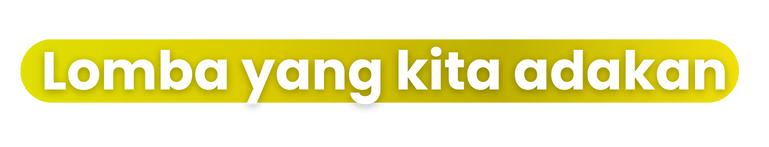
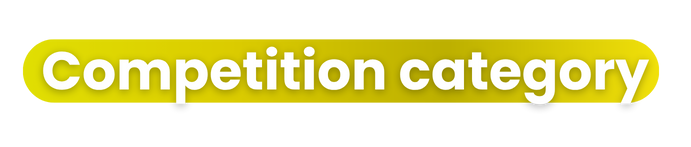
update bahasa

Changed region(s): [[0.0, 0.2449, 0.9725, 0.7347]]

diff --git a/resources/views/front/index.blade.php b/resources/views/front/index.blade.php
@@ -84,7 +84,7 @@
             <li style="margin-right: 20px;"><a href="#hero" class="active" style="color: white; text-decoration: none;">Home</a></li>
             <li style="margin-right: 20px;"><a href="#about" style="color: white; text-decoration: none;">About</a></li>
             <li style="margin-right: 20px;"><a href="#services" style="color: white; text-decoration: none;">Category</a></li>
-            <li style="margin-right: 20px;"><a href="#registration" style="color: white; text-decoration: none;">Daftar</a></li>
+            <li style="margin-right: 20px;"><a href="#registration" style="color: white; text-decoration: none;">Register</a></li>
             <li class="d-none d-md-flex" style="gap: 12px; align-items: center;">
               <a href="mailto:difest8th@gmail.com" title="Email" style="color: white; font-size: 1.3em;"><i class="bi bi-envelope"></i></a>
               <a href="https://www.tiktok.com/@difest" target="_blank" title="TikTok" style="color: white; font-size: 1.3em;"><i class="bi bi-tiktok"></i></a>

diff --git a/resources/views/layouts/topbar.blade.php b/resources/views/layouts/topbar.blade.php
@@ -22,8 +22,9 @@
                 </a>
             </div>
 
-            <button type="button" class="btn btn-sm px-3 font-size-16 header-item waves-effect vertical-menu-btn">
-
+            <!-- Hamburger menu for mobile sidebar toggle -->
+            <button type="button" class="btn btn-sm px-3 font-size-20 header-item waves-effect vertical-menu-btn d-block d-lg-none" id="sidebarToggle" aria-label="Toggle sidebar">
+                <i class="uil uil-bars"></i>
             </button>
 
             <!-- App Search-->
@@ -32,7 +33,7 @@
 
         <div class="d-flex">
 
-            <div class="dropdown d-none d-lg-inline-block ms-1">
+            <div class="dropdown d-inline-block ms-1">
                 <button type="button" class="btn header-item noti-icon waves-effect" data-bs-toggle="fullscreen">
                     <i class="uil-minus-path"></i>
                 </button>

diff --git a/resources/views/front/registration-form.blade.php b/resources/views/front/registration-form.blade.php
@@ -5,7 +5,7 @@
     alert('Pendaftaran gagal disimpan. gunakan email yg berbeda & Silakan coba lagi.');
 </script>
 @endif
-    <h2 class="section-title">Formulir Pendaftaran</h2>
+    <h2 class="section-title">Registration form</h2>
     <div class="card border-danger mb-3" style="max-width: 500px; margin: 0 auto; background-color: #8b0000; color: white;">
       <div class="card-body">
         <form action="{{ route('register.submit') }}" method="POST" enctype="multipart/form-data">
